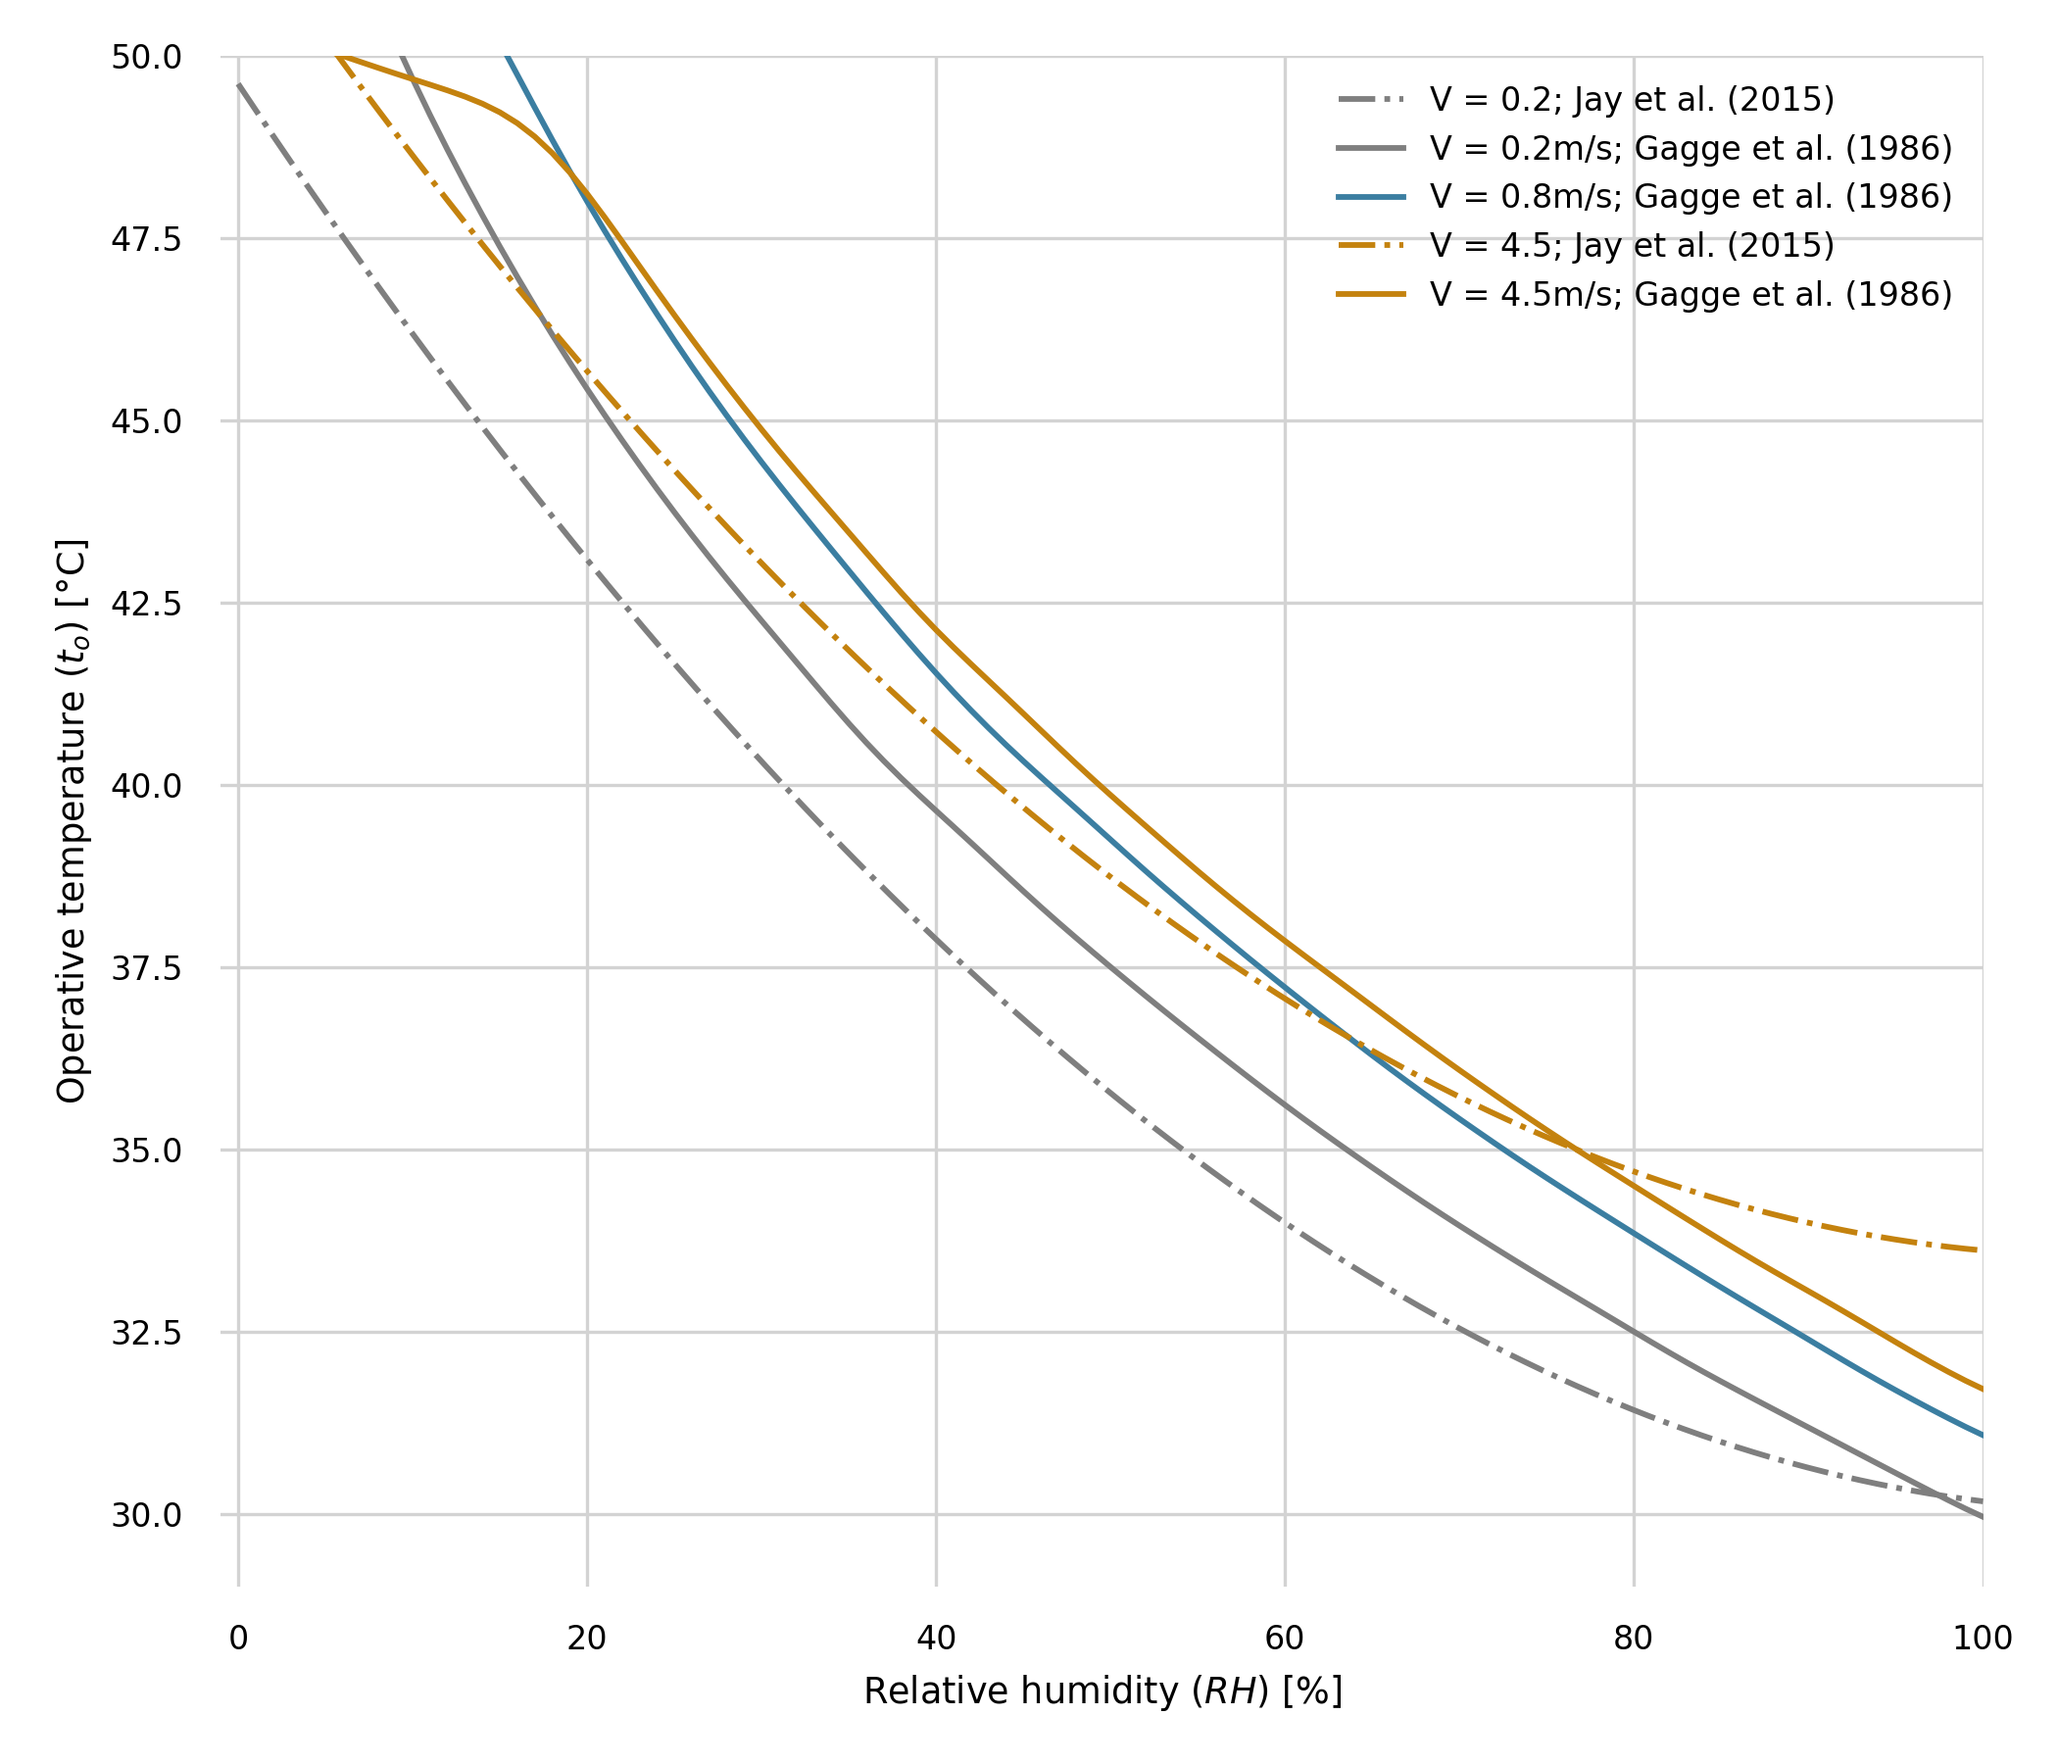
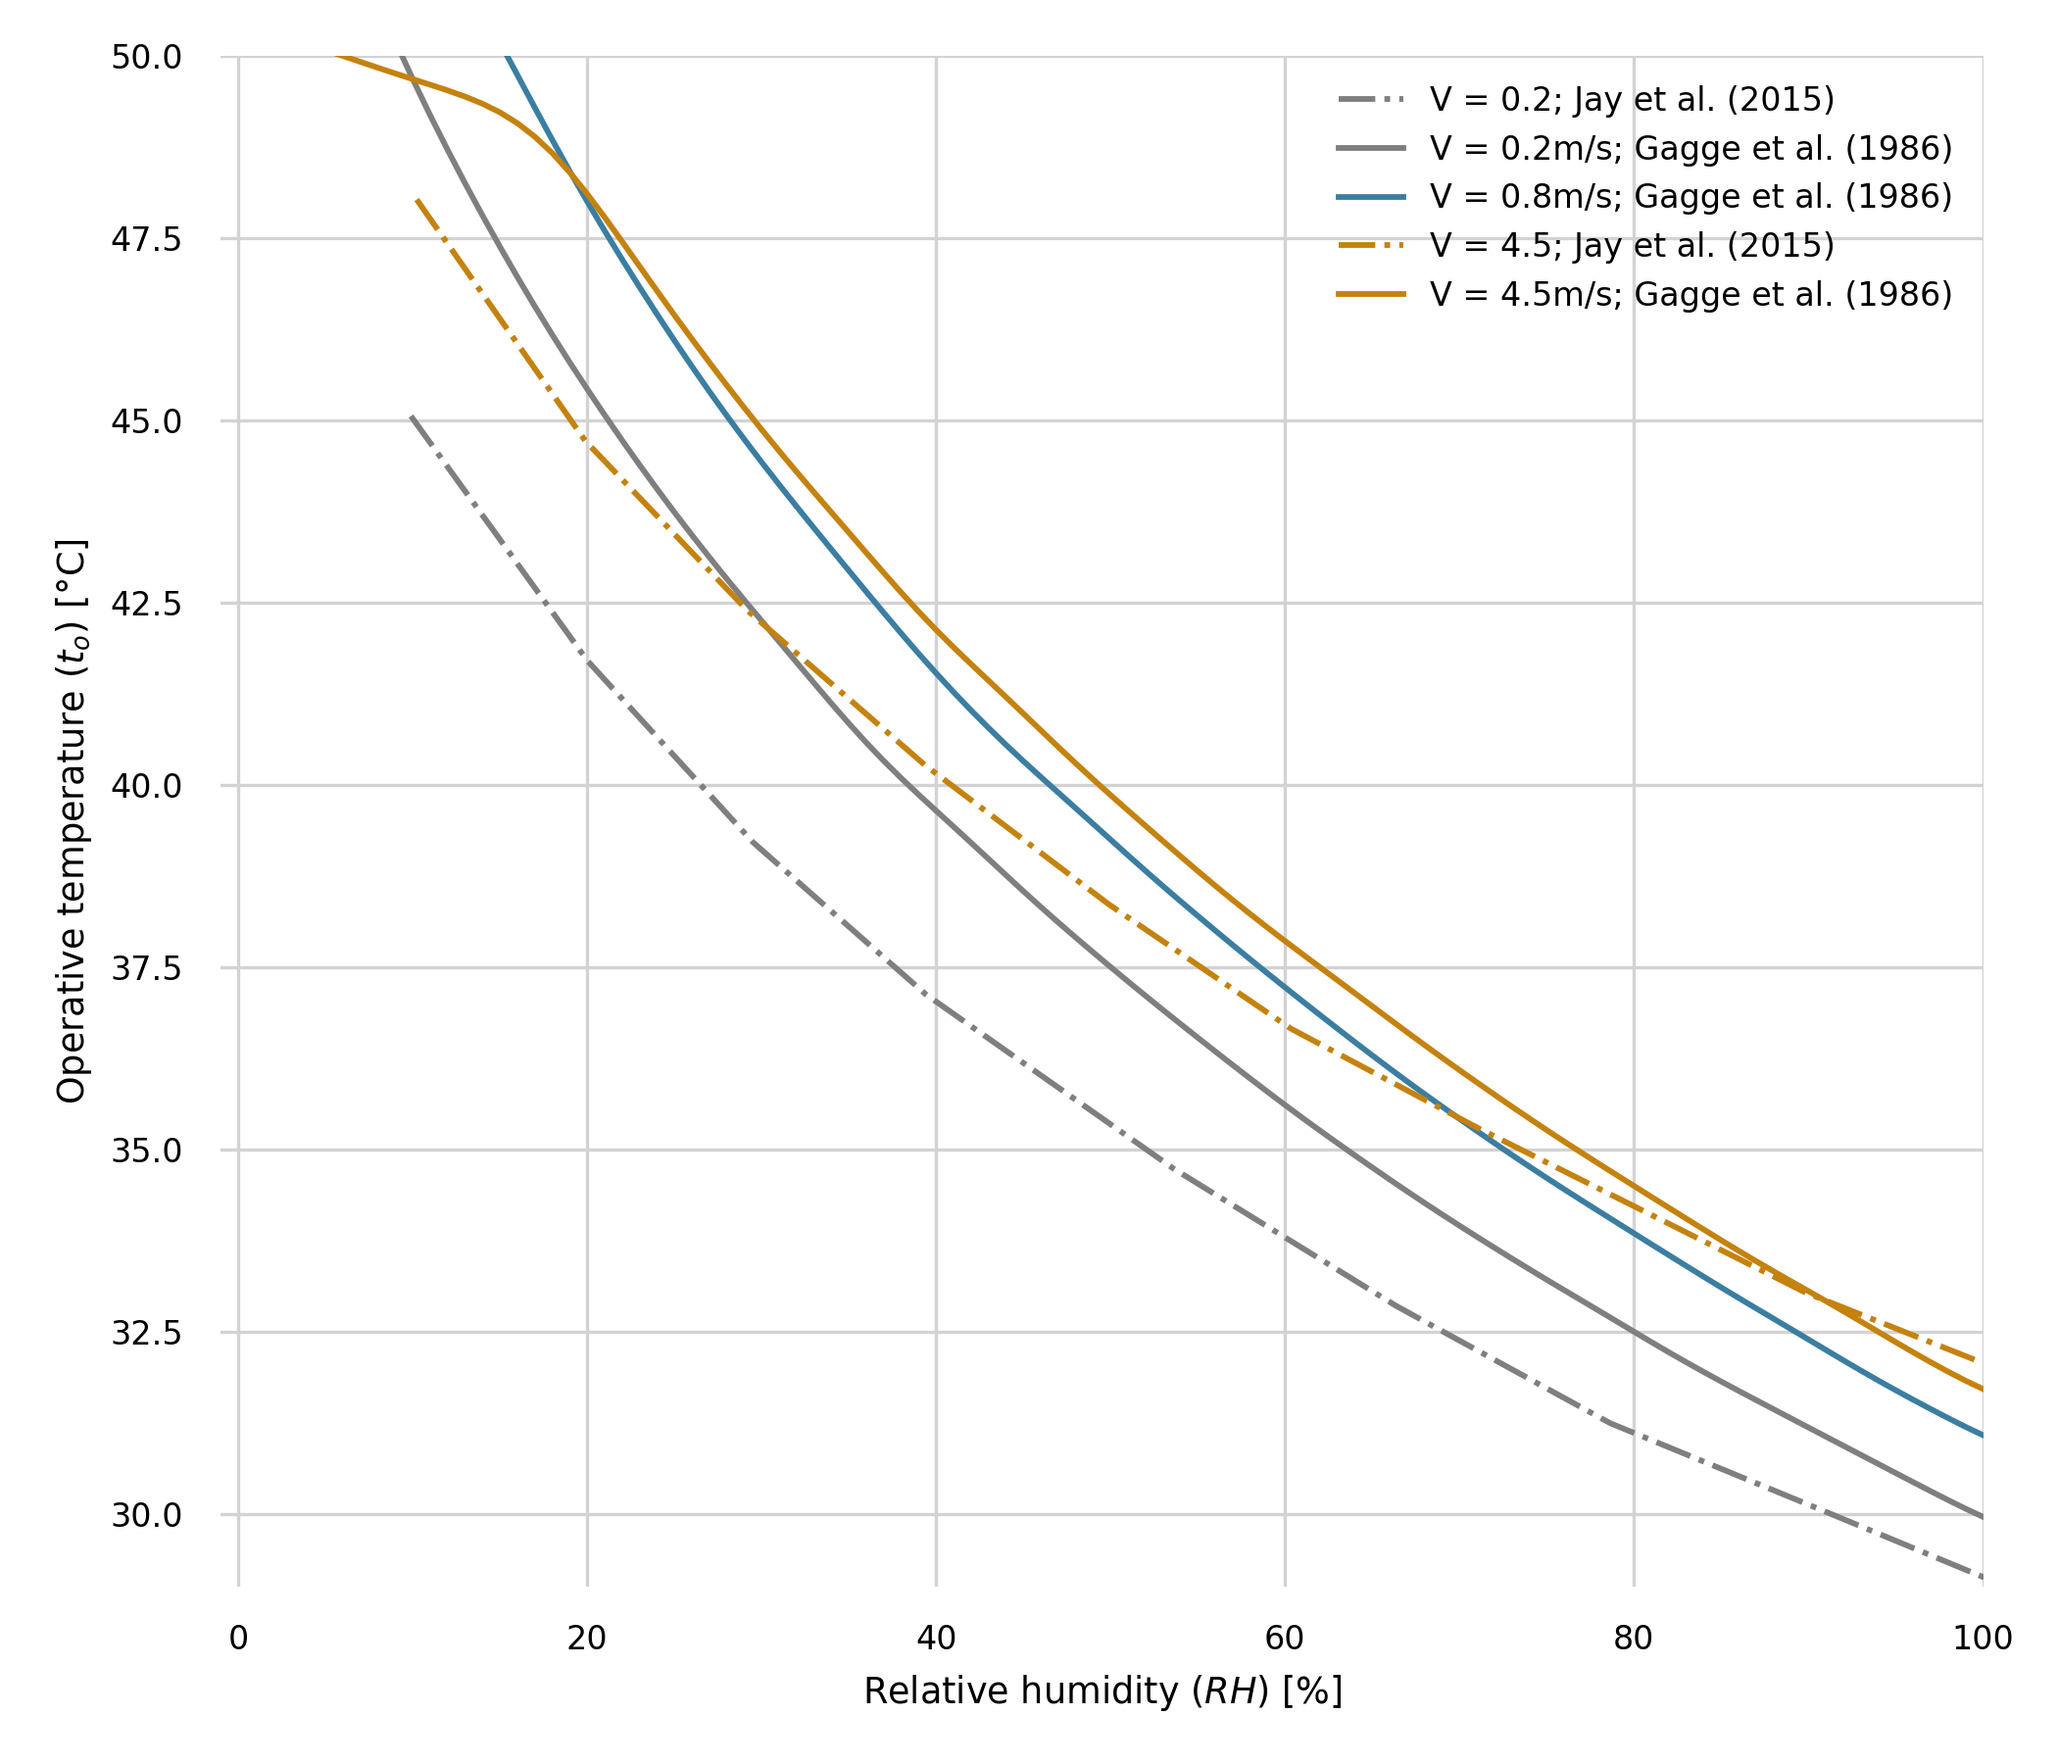
* plotted real heat strain jay

diff --git a/code/main.py b/code/main.py
@@ -45,12 +45,30 @@ class DataAnalysis:
         except FileNotFoundError:
             self.heat_strain = {}
 
-        try:
-            self.heat_strain_ollie = np.load(
-                os.path.join("code", "heat_strain_ollie.npy"), allow_pickle="TRUE"
-            ).item()
-        except FileNotFoundError:
-            self.heat_strain_ollie = {}
+        self.heat_strain_ollie = {}
+        self.heat_strain_ollie[4.5] = {
+            10.234375: 48.02926829,
+            19.90234375: 44.71707317,
+            29.1796875: 42.39512195,
+            39.3359375: 40.27804878,
+            49.8828125: 38.36585366,
+            60.33203125: 36.65853659,
+            71.07421875: 35.29268293,
+            81.328125: 34.06341463,
+            89.82421875: 33.03902439,
+            99.8828125: 32.08292683,
+        }
+        self.heat_strain_ollie[0.2] = {
+            9.901960784: 45.05982906,
+            20: 41.70940171,
+            29.50980392: 39.21367521,
+            39.41176471: 37.12820513,
+            53.62745098: 34.73504274,
+            66.37254902: 32.85470085,
+            78.62745098: 31.24786325,
+            90.09803922: 30.11965812,
+            100.0980392: 29.12820513,
+        }
 
         self.conn = sqlite3.connect(
             os.path.join(os.getcwd(), "code", "weather_ashrae.db")
